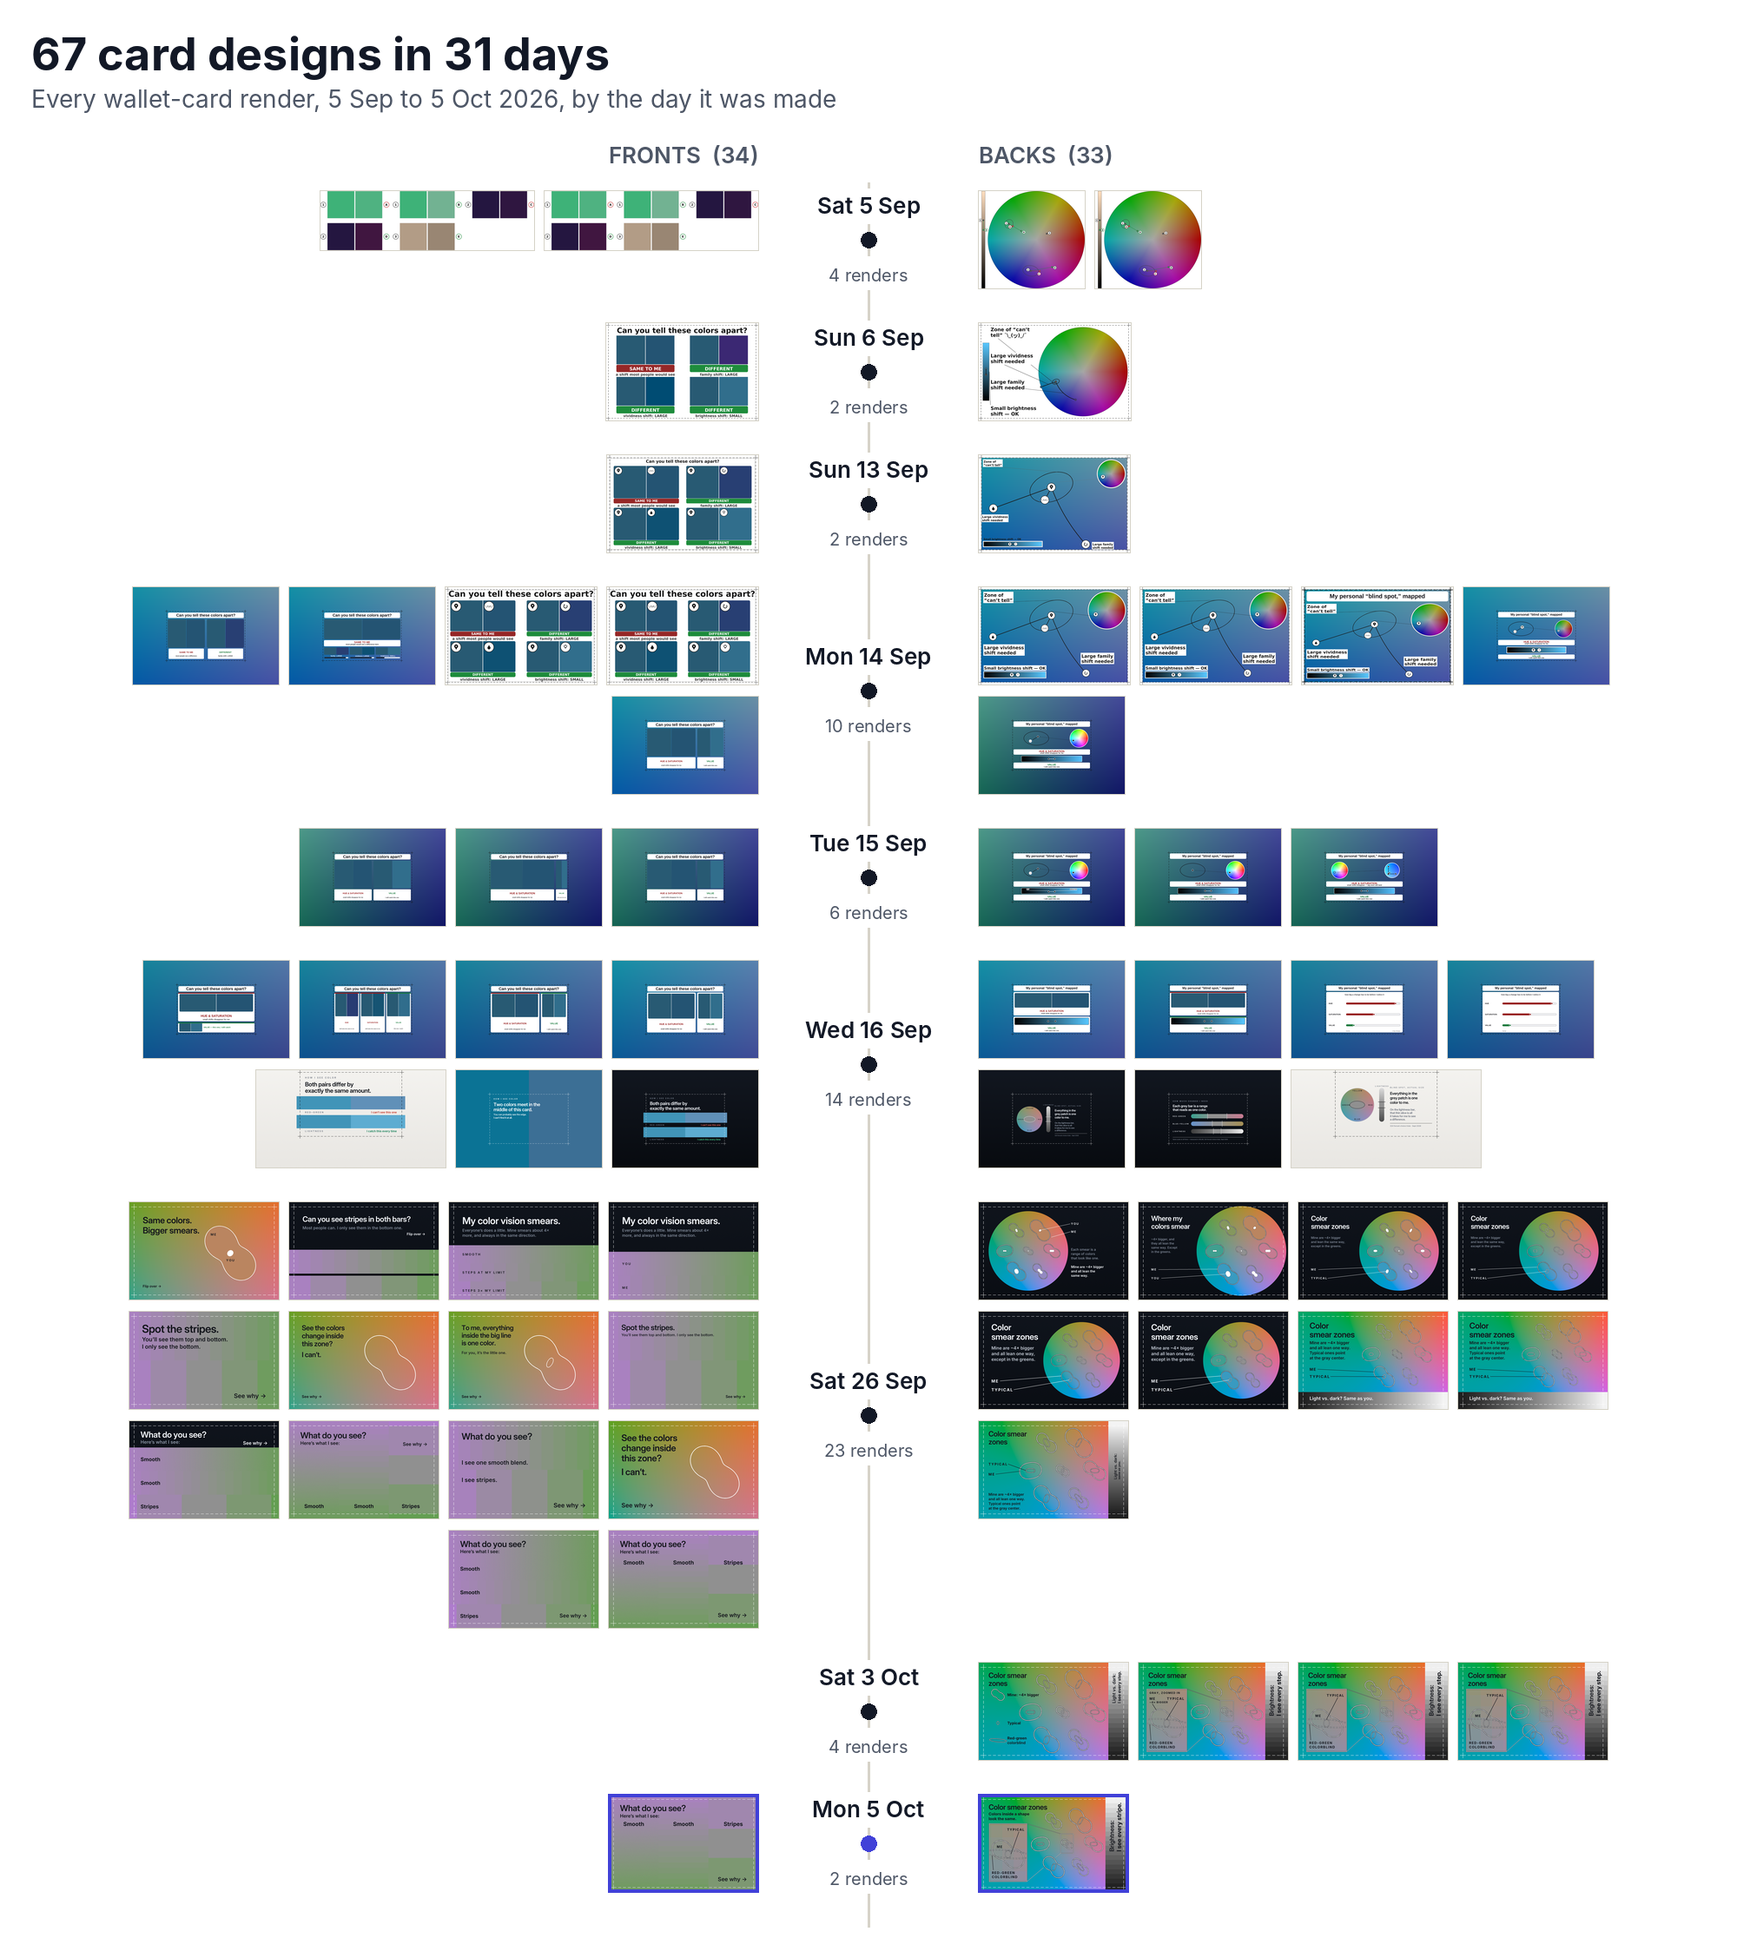
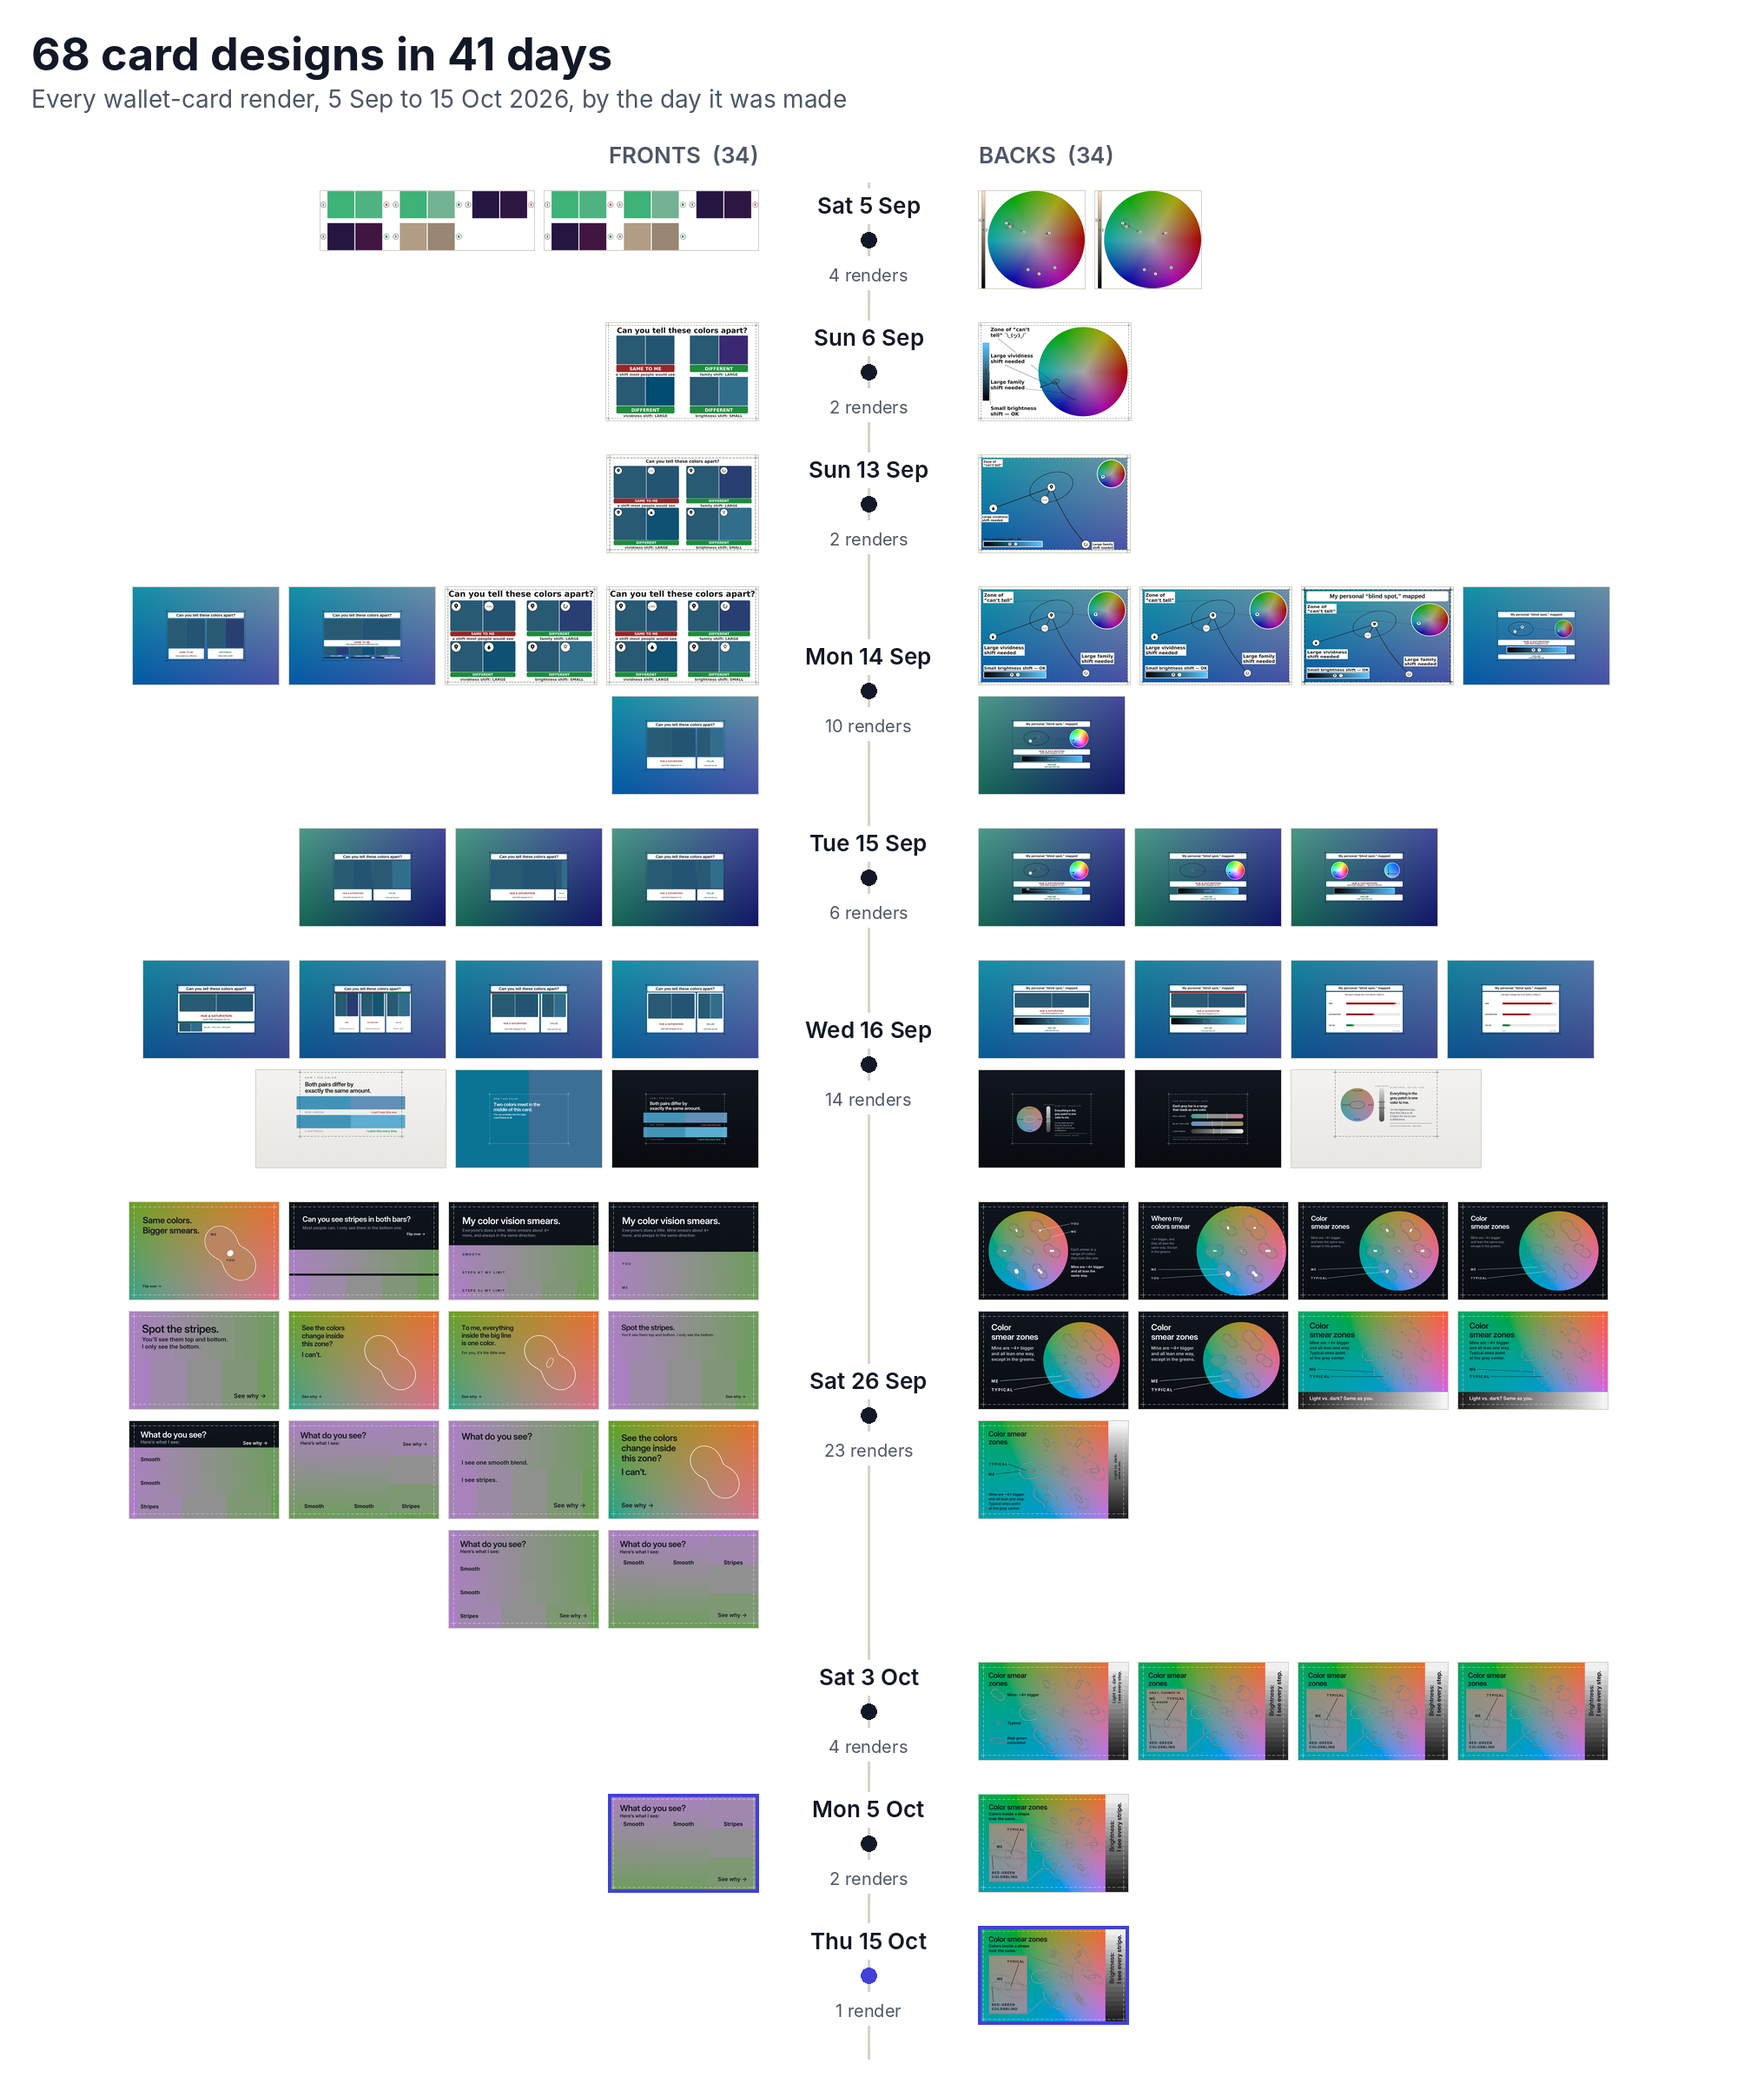
Vision post: add R17 back to the card montage (68 designs in 41 days)
Extended the existing montage with card_montage.py's exact layout: new Thu 15 Oct
row with R17 as final back, R16 back demoted to a normal outline, header counts updated.

Claude-Session: https://claude.ai/code/session_013yQQmKffJVCZjdyG4SzuST

diff --git a/src/content/blog/mapping-my-own-color-vision.md b/src/content/blog/mapping-my-own-color-vision.md
@@ -144,7 +144,7 @@ I fail the red-green test without having a red-green defect - not because my con
 
 ## The vision card
 
-The wallet card idea went through 67 designs in 31 days, incorporating critiques from Reddit, Facebook, friends, family, myself, and of course, my thinking buddy, Claude. Eventually I created a design brief with the rule that it has to work in 2–3 seconds, or it fails, however clever it is. Here's the full progression of what that looked like.
+The wallet card idea went through 68 designs in 41 days, incorporating critiques from Reddit, Facebook, friends, family, myself, and of course, my thinking buddy, Claude. Eventually I created a design brief with the rule that it has to work in 2–3 seconds, or it fails, however clever it is. Here's the full progression of what that looked like.
 
 <picture>
   <source srcset="/images/2026/10/vision/card_iterations_dark.png" media="(prefers-color-scheme: dark)">
